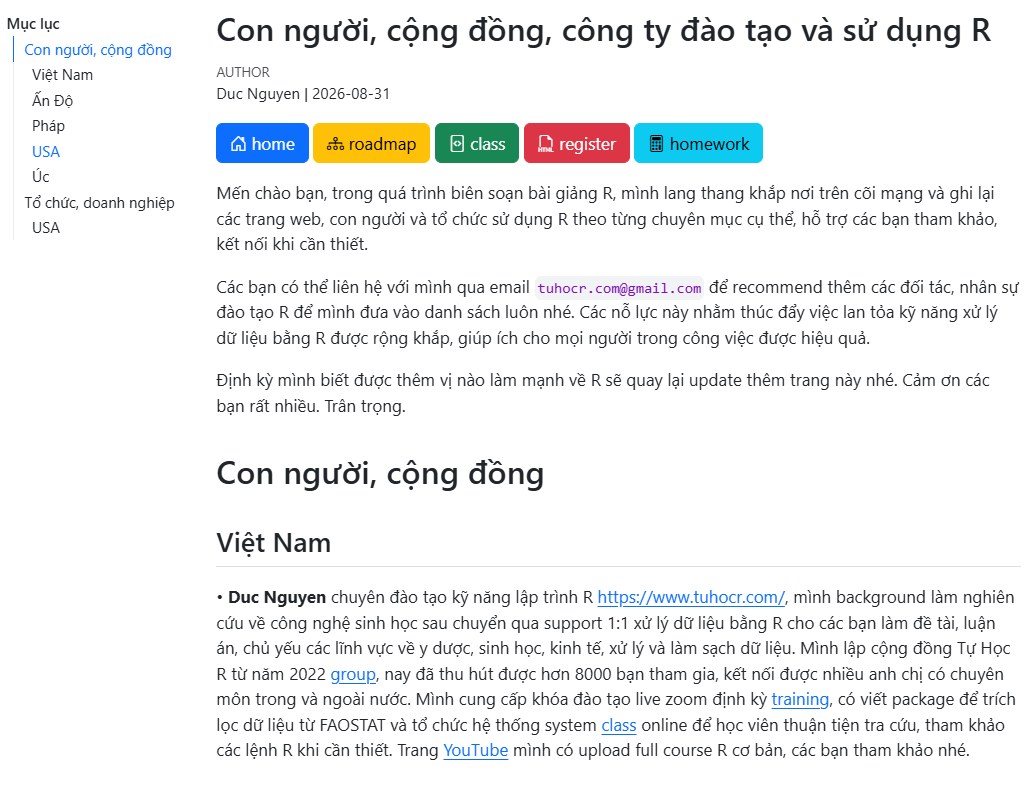
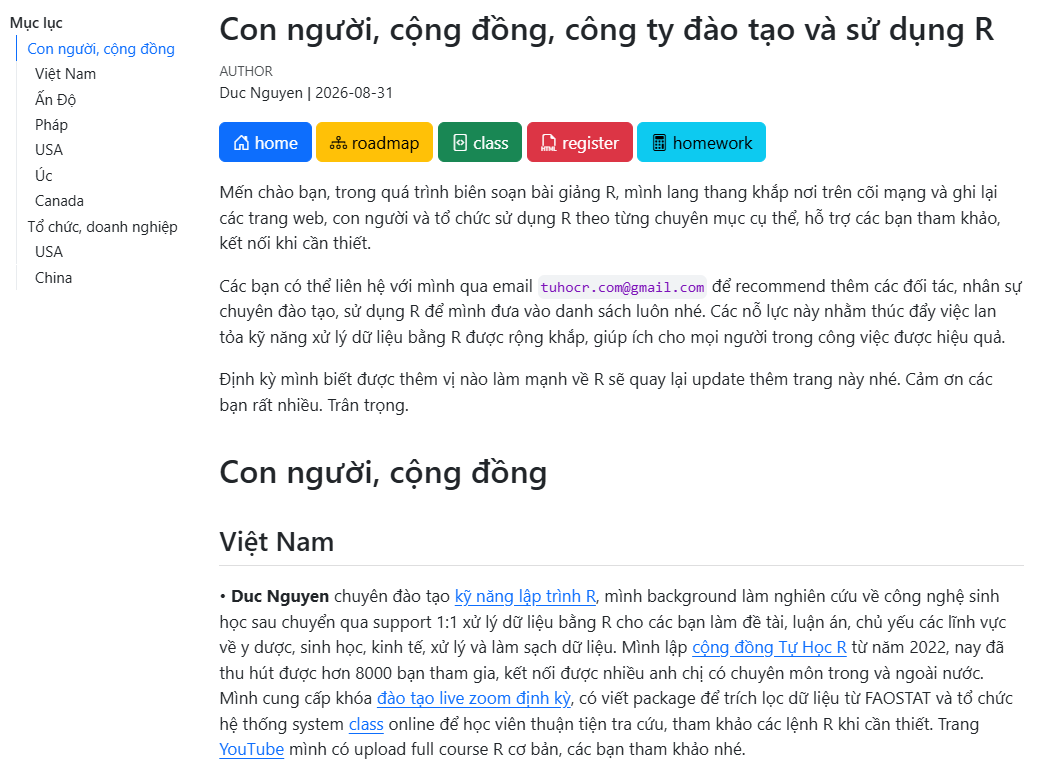
.

diff --git a/blog/cong-dong-su-dung-r/index.html b/blog/cong-dong-su-dung-r/index.html
@@ -2182,10 +2182,12 @@ vertical-align: -.125em;
   <li><a href="#pháp" id="toc-pháp" class="nav-link" data-scroll-target="#pháp">Pháp</a></li>
   <li><a href="#usa" id="toc-usa" class="nav-link" data-scroll-target="#usa">USA</a></li>
   <li><a href="#úc" id="toc-úc" class="nav-link" data-scroll-target="#úc">Úc</a></li>
+  <li><a href="#canada" id="toc-canada" class="nav-link" data-scroll-target="#canada">Canada</a></li>
   </ul></li>
   <li><a href="#tổ-chức-doanh-nghiệp" id="toc-tổ-chức-doanh-nghiệp" class="nav-link" data-scroll-target="#tổ-chức-doanh-nghiệp">Tổ chức, doanh nghiệp</a>
   <ul>
   <li><a href="#usa-1" id="toc-usa-1" class="nav-link" data-scroll-target="#usa-1">USA</a></li>
+  <li><a href="#china" id="toc-china" class="nav-link" data-scroll-target="#china">China</a></li>
   </ul></li>
   </ul>
 </nav>
@@ -2227,30 +2229,38 @@ vertical-align: -.125em;
 <h1>Con người, cộng đồng</h1>
 <section id="việt-nam" class="level2">
 <h2 class="anchored" data-anchor-id="việt-nam">Việt Nam</h2>
-<p>• <strong>Duc Nguyen</strong> chuyên đào tạo kỹ năng lập trình R <a href="https://www.tuhocr.com/">web</a>, mình background làm nghiên cứu về công nghệ sinh học sau chuyển qua support 1:1 xử lý dữ liệu bằng R cho các bạn làm đề tài, luận án, chủ yếu các lĩnh vực về y dược, sinh học, kinh tế, xử lý và làm sạch dữ liệu. Mình lập cộng đồng Tự Học R từ năm 2022 <a href="https://www.facebook.com/groups/tuhocr">group</a>, nay đã thu hút được hơn 8000 bạn tham gia, kết nối được nhiều anh chị có chuyên môn trong và ngoài nước. Mình cung cấp khóa đào tạo live zoom định kỳ <a href="https://www.tuhocr.com/training">training</a>, có viết package để trích lọc dữ liệu từ FAOSTAT và tổ chức hệ thống system <a href="https://class.tuhocr.com/">class</a> online để học viên thuận tiện tra cứu, tham khảo các lệnh R khi cần thiết. Trang <a href="https://www.youtube.com/@tuhocr/courses">YouTube</a> mình có upload full course R cơ bản, các bạn tham khảo nhé.</p>
+<p>• <strong>Duc Nguyen</strong> chuyên đào tạo <a href="https://www.tuhocr.com/">kỹ năng lập trình R</a>, mình background làm nghiên cứu về công nghệ sinh học sau chuyển qua support 1:1 xử lý dữ liệu bằng R cho các bạn làm đề tài, luận án, chủ yếu các lĩnh vực về y dược, sinh học, kinh tế, xử lý và làm sạch dữ liệu. Mình lập <a href="https://www.facebook.com/groups/tuhocr">cộng đồng Tự Học R</a> từ năm 2022, nay đã thu hút được hơn 8000 bạn tham gia, kết nối được nhiều anh chị có chuyên môn trong và ngoài nước. Mình cung cấp khóa <a href="https://www.tuhocr.com/training">đào tạo live zoom định kỳ</a>, có viết package để trích lọc dữ liệu từ FAOSTAT và tổ chức hệ thống system <a href="https://class.tuhocr.com/">class</a> online để học viên thuận tiện tra cứu, tham khảo các lệnh R khi cần thiết. Trang <a href="https://www.youtube.com/@tuhocr/courses">YouTube</a> mình có upload full course R cơ bản, các bạn tham khảo nhé.</p>
 </section>
 <section id="ấn-độ" class="level2">
 <h2 class="anchored" data-anchor-id="ấn-độ">Ấn Độ</h2>
-<p>• <strong>Aravind Hebbali</strong> đào tạo kỹ năng lập trình R <a href="https://www.aravindhebbali.com/">web</a>, anh này có làm một số package R <a href="https://www.aravindhebbali.com/r-packages">list</a>, viết tài liệu hướng dẫn vẽ Base R các dạng đồ thị căn bản <a href="https://viz-base.rsquaredacademy.com/">book</a>, và lập trang web cung cấp các khóa đào tạo R online <a href="https://www.rsquaredacademy.com/">web</a>. Trang <a href="https://www.youtube.com/@RsquaredAcademy/videos">YouTube</a> đăng nhiều video bài giảng, video lần cuối đăng cách đây 6 năm.</p>
+<p>• <strong>Aravind Hebbali</strong> chuyên đào tạo <a href="https://www.aravindhebbali.com/">kỹ năng lập trình R</a>, anh này có làm một số <a href="https://www.aravindhebbali.com/r-packages">package R</a>, viết tài liệu hướng dẫn vẽ Base R các dạng <a href="https://viz-base.rsquaredacademy.com/">đồ thị căn bản</a>, và lập trang web cung cấp các <a href="https://www.rsquaredacademy.com/">khóa đào tạo R online</a>. Trang <a href="https://www.youtube.com/@RsquaredAcademy/videos">YouTube</a> đăng nhiều video bài giảng, video lần cuối đăng cách đây 6 năm.</p>
 </section>
 <section id="pháp" class="level2">
 <h2 class="anchored" data-anchor-id="pháp">Pháp</h2>
-<p>• <strong>Alboukadel Kassambara</strong> PhD chuyên ngành sinh học tính toán và khoa học máy tính, sáng lập trang STHDA/Datanovia <a href="https://www.datanovia.com/about">link</a> vào năm 2018, duy trì liên tục đến hiện nay. Là tác giả của các package thường gặp khi vẽ đồ thị như <code>ggpubr</code>, <code>rstatix</code>, <code>factoextra</code>, <code>survminer</code> và <code>ggcorrplot</code>. Mình biết đến anh này khi đọc sách về kỹ thuật vẽ đồ thị PCA <a href="https://studyr.netlify.app/ref/kassambara_principal_component_methods.pdf">book</a>.</p>
+<p>• <strong>Alboukadel Kassambara</strong> PhD chuyên ngành sinh học tính toán và khoa học máy tính, sáng lập trang <a href="https://www.datanovia.com/about">STHDA/Datanovia</a> vào năm 2018, duy trì liên tục đến hiện nay. Là tác giả của các package thường gặp khi vẽ đồ thị như <code>ggpubr</code>, <code>rstatix</code>, <code>factoextra</code>, <code>survminer</code> và <code>ggcorrplot</code>. Mình biết đến anh này khi đọc sách về <a href="https://studyr.netlify.app/ref/kassambara_principal_component_methods.pdf">kỹ thuật vẽ đồ thị PCA</a>. Một nhân vật đóng góp rất nhiều vào sự phát triển của R qua các package hữu ích!</p>
 </section>
 <section id="usa" class="level2">
 <h2 class="anchored" data-anchor-id="usa">USA</h2>
-<p>• <strong>Timothy Idowu</strong> PhD chuyên ngành thống kê, công tác ở đại học Winconsin-Madison. Anh này lập ra trang <a href="https://www.statscodes.com/">Stats Codes</a> chuyên về các lệnh Base R để mọi người dễ dàng tiếp cận các lệnh căn bản R (không cần dùng package). Bạn có thể tìm đọc về các dạng phân phối xác suất <a href="https://www.statscodes.com/distributions/">link</a> cũng như công thức các loại kiểm định thường gặp ở đây <a href="https://www.statscodes.com/tests-and-intervals/">link</a>.</p>
+<p>• <strong>Timothy Idowu</strong> PhD chuyên ngành thống kê, công tác ở đại học Winconsin-Madison. Anh này lập ra trang <a href="https://www.statscodes.com/">Stats Codes</a> chuyên về các lệnh Base R để mọi người dễ dàng tiếp cận các lệnh căn bản R (không cần dùng package). Bạn có thể tìm đọc về các dạng <a href="https://www.statscodes.com/distributions/">phân phối xác suất</a> cũng như công thức <a href="https://www.statscodes.com/tests-and-intervals/">các loại kiểm định thường gặp</a>.</p>
 </section>
 <section id="úc" class="level2">
 <h2 class="anchored" data-anchor-id="úc">Úc</h2>
-<p>• <strong>GS. Nguyễn Văn Tuấn</strong> chuyên giảng dạy thống kê về R. Hàng năm Thầy về Việt Nam thực hiện các khóa đào tạo R, hiện tại phối hợp với Viện Phương Nam <a href="https://vienphuongnam.com.vn/tin-tuc/tu-phu-bep-thanh-gs-noi-tieng-duoc-nu-hoang-anh-vinh-danh/">link</a>. Thầy Tuấn cũng có nhiều tài liệu phổ biến R từ năm 2010 đến nay và một kênh <a href="https://www.youtube.com/@drnguyenvtuan">YouTube</a> về các bài giảng R rất hay.</p>
+<p>• <strong>GS. Nguyễn Văn Tuấn</strong> chuyên giảng dạy thống kê về R. Hàng năm Thầy về Việt Nam thực hiện các khóa đào tạo R, hiện tại phối hợp với <a href="https://vienphuongnam.com.vn/tin-tuc/tu-phu-bep-thanh-gs-noi-tieng-duoc-nu-hoang-anh-vinh-danh/">Viện Phương Nam</a>. Thầy Tuấn cũng có nhiều tài liệu phổ biến R từ năm 2010 đến nay và một kênh <a href="https://www.youtube.com/@drnguyenvtuan">YouTube</a> về các bài giảng R rất hay.</p>
+</section>
+<section id="canada" class="level2">
+<h2 class="anchored" data-anchor-id="canada">Canada</h2>
+<p>• <strong>Dean Attali</strong> <a href="https://deanattali.com/aboutme/">chuyên gia về Shiny app</a>, sáng lập trang <a href="https://attalitech.com/">AttliTech</a>. Anh này background tin sinh học và khoa học máy tính, làm cho software engineer cho các tập đoàn của Mỹ. Là tác giả package <code>ggExtra</code> cung cấp nhiều chức năng mở rộng plot nâng cao cho nền tảng vẽ đồ thị <code>ggplot2</code> trong R. Cung cấp khóa học thiết kế app Shiny ở <a href="https://www.datacamp.com/courses/case-studies-building-web-applications-with-shiny-in-r">DataCamp</a>.</p>
 </section>
 </section>
 <section id="tổ-chức-doanh-nghiệp" class="level1">
 <h1>Tổ chức, doanh nghiệp</h1>
 <section id="usa-1" class="level2">
 <h2 class="anchored" data-anchor-id="usa-1">USA</h2>
-<p>• <strong>Công ty RStudio</strong> <a href="https://posit.co/">web</a>, thành lập năm 2009 bởi J. J. Allaire, thành viên nòng cốt là Hadley Wickham (tác giả của package <code>ggplot2</code>), cung cấp RStudio IDE giao diện lập trình R, quản lý theo folder project rất thuận tiện. Năm 2022 công ty này đổi tên thành Posit với tầm nhìn kết hợp Python và nhiều ngôn ngữ lập trình khác trên dùng IDE. Hiện phát triển Positron IDE và các ứng dụng cloud, Shiny app, data science. Thực tế thì phong trào học và ứng dụng R bùng nổ từ lúc RStudio IDE ra đời vì cung cấp giao diện code thuận tiện hơn RGui mặc định của Base R. Các bước đi tiếp theo của công ty đang gom gọn lại RPubs (nền tảng xuất bản R Markdown), Bookdown, Quarto về một mối trên Posit Cloud, và có cảm giác công ty đang dịch chuyển mạnh qua Python trong những năm tới.</p>
+<p>• <a href="https://posit.co/"><strong>Công ty RStudio</strong></a>, thành lập năm 2009 bởi J. J. Allaire, thành viên nòng cốt là Hadley Wickham (tác giả của package <code>ggplot2</code>), cung cấp RStudio IDE giao diện lập trình R, quản lý theo folder project rất thuận tiện. Năm 2022 công ty này đổi tên thành Posit với tầm nhìn kết hợp Python và nhiều ngôn ngữ lập trình khác trên dùng IDE. Hiện phát triển Positron IDE và các ứng dụng cloud, Shiny app, data science. Thực tế thì phong trào học và ứng dụng R bùng nổ từ lúc RStudio IDE ra đời vì cung cấp giao diện code thuận tiện hơn RGui mặc định của Base R. Các bước đi tiếp theo của công ty đang gom gọn lại RPubs (nền tảng xuất bản R Markdown), Bookdown, Quarto về một mối trên Posit Cloud, và có cảm giác công ty đang dịch chuyển mạnh qua Python trong những năm tới.</p>
+</section>
+<section id="china" class="level2">
+<h2 class="anchored" data-anchor-id="china">China</h2>
+<p>• <a href="https://www.bioinformatics.com.cn/srplot"><strong>Platform SRplot</strong></a> cung cấp dịch vụ vẽ các loại đồ thị bằng R, bạn có thể tạo tài khoản (free) trên này và sử dụng. Ta nhập data raw vào giao diện web, sau đó dữ liệu được gửi đến server để xử lý và trả về kết quả là file hình đồ thị. Mình không thấy được code R, tuy nhiên trang này có liệt kê các loại đồ thị thường gặp, ta hoàn toàn có thể vẽ lại trong R cho các dạng plot này. Theo thông tin họ cung cấp thì thành viên sáng lập từ trường Shanghai Jiaotong University, Xiangya School of Medicine.</p>
 </section>
 </section>
 
